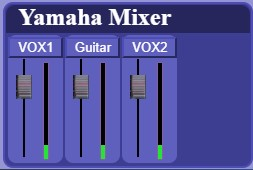
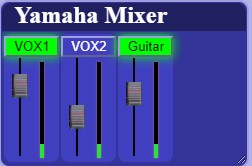
Documentation

diff --git a/src/lib/help.js b/src/lib/help.js
@@ -14,7 +14,7 @@ export const help_data = [
 <li>Change source settings of currently displayed Preview and/or Program views</li>
 <li>Support for Studio Mode (preview and program scenes)</li>
 <li>Live view of preview &amp; program, updating 1 fps</li>
-<li>User defined hotkey configuration (both "named" and "keybord")</li>
+<li>User defined hotkey configuration (both "named" and "keybord") hotkeys</li>
 </ul>
 <h3>A/V Devices</h3>
 <ul>
@@ -72,18 +72,25 @@ displayed scene(s) and allow changing which source are active fr each scene.</li
   - OBS Studio IP:Port and password
   - AvDeviceControl IP:Port and password
   - Settngs Persist mode
-  - OBS Studio slot name 
+  - OBS Studio persisted data slot name 
   - Synchronization enable
 - Persisted Data:
   - Show Sources
   - Use A/V
-  - Hotkey Configuration (JSON object)</p>
+  - Hotkey Configuration (JSON object)
+  - Theme color</p>
 <p>The user interface allows choosing whether to persist settings in OBS Studio or the browser local data. </p>
 <p>When configured to persist settings in OBS Studio, a OBS Studio persisted data slot name must be provided, and synchronization may optionally be enabled.</p>
 <ul>
 <li>Persisted data is saved to OBS Studio, but local data is not.</li>
 <li>Persisted data is retrieved from the slot at OBS Studio connect time</li>
 <li>Persisted data may be saved or loaded manually, but changes are not automatically persisted unless Sync is enabled.</li>
+</ul>
+<p>The third section of the panel contains:</p>
+<p><img src="color-disconnect.jpg" ></p>
+<ul>
+<li>Color - Change the color theme. </li>
+<li>Disconnect - Disconnect any connected websocket server. Button only appears for connected servers.</li>
 </ul>`},
 { topic: `Hotkeys`,
  text: `<h2>Hotkeys</h2>

diff --git a/README.md b/README.md
@@ -29,7 +29,7 @@ supports, for example, the ability to change the Program scene without impacting
 - Change source settings of currently displayed Preview and/or Program views
 - Support for Studio Mode (preview and program scenes)
 - Live view of preview & program, updating 1 fps
-- User defined hotkey configuration (both "named" and "keybord")
+- User defined hotkey configuration (both "named" and "keybord") hotkeys
 
 ### A/V Devices
 - Pan, Tilt, and Zoom support for VISCA cameras
@@ -102,12 +102,13 @@ All configuration and settings are stored in the browser local data. The two cat
   - OBS Studio IP:Port and password
   - AvDeviceControl IP:Port and password
   - Settngs Persist mode
-  - OBS Studio slot name 
+  - OBS Studio persisted data slot name 
   - Synchronization enable
 - Persisted Data:
   - Show Sources
   - Use A/V
   - Hotkey Configuration (JSON object)
+  - Theme color
 
 The user interface allows choosing whether to persist settings in OBS Studio or the browser local data. 
 
@@ -117,6 +118,12 @@ When configured to persist settings in OBS Studio, a OBS Studio persisted data s
 - Persisted data is retrieved from the slot at OBS Studio connect time
 - Persisted data may be saved or loaded manually, but changes are not automatically persisted unless Sync is enabled.
 
+The third section of the panel contains:
+
+<img src="public/color-disconnect.jpg" >
+
+- Color - Change the color theme. 
+- Disconnect - Disconnect any connected websocket server. Button only appears for connected servers.
 
 ## Hotkeys
 Hotkeys are presented as a horizontally aligned set of Hotkey group panels. 
